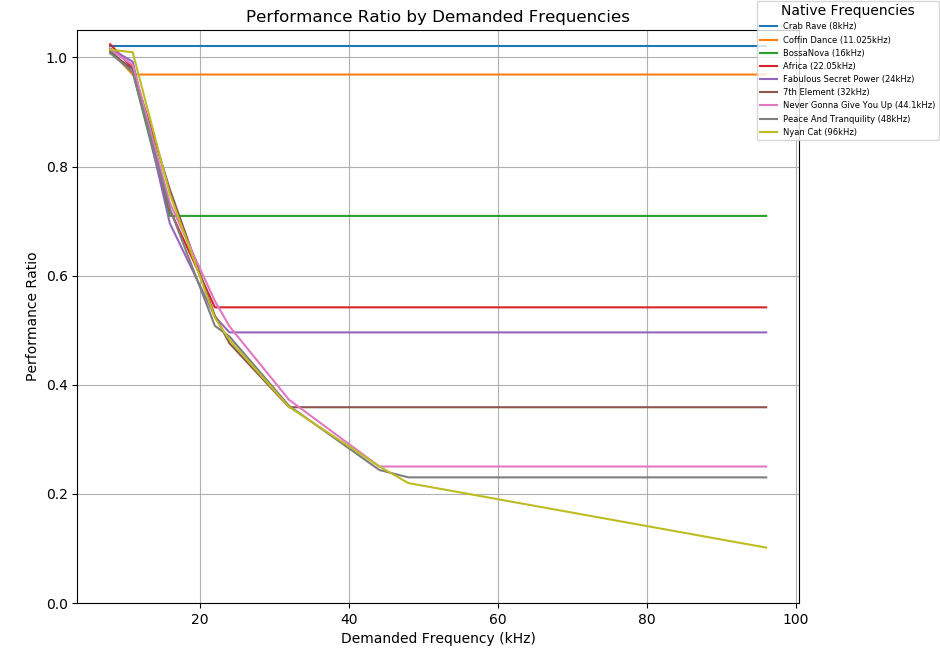
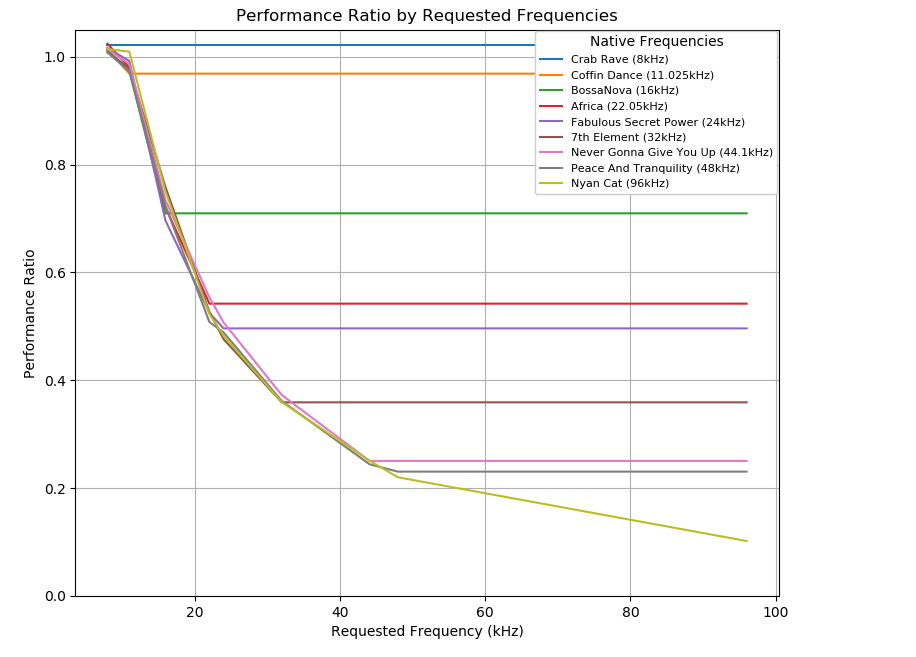
Readme + new charts

diff --git a/Charts/show_charts.py b/Charts/show_charts.py
@@ -41,12 +41,12 @@ def showChart(data):
         plots.append(plot)
         legend_labels.append(str(dataset["Title"] + " (" + str(dataset["Freq"]) + "kHz)"))
 
-    axis.set_xlabel("Demanded Frequency (kHz)")
+    axis.set_xlabel("Requested Frequency (kHz)")
     axis.set_ylabel("Performance Ratio")
-    axis.set_title("Performance Ratio by Demanded Frequencies")
+    axis.set_title("Performance Ratio by Requested Frequencies")
     axis.grid(True)
 
-    figure.legend(plots, labels=legend_labels, loc="upper right", prop={'size':6},borderaxespad=0.1, title="Native Frequencies")
+    plt.legend(plots, labels=legend_labels, loc="upper right", prop={'size':8}, framealpha=1.0, borderaxespad=0.1, title="Native Frequencies")
     figure.tight_layout(pad=0.1)   
     plt.subplots_adjust(right=0.85)
     plt.show()

diff --git a/ReadMe.md b/ReadMe.md
@@ -1,11 +1,30 @@
-yum install alsa-lib-devel
-yum install bluez-libs-devel
+# Instructions
 
-g++ -g -o alsatest main.cpp -lasound
-scp music.wav pi@domain.duckdns.org:/home/pi/projects/laboratoire5
+## Prérequis:
 
-bluetooth :
-gcc -o client client.c -lbluetooth
-    exemple possible d'utilisation du client (pas sûr):
-./client B8:27:EB:1A:4E:52 2 0
-./client B8:27:EB:F8:55:90 2 0 
+	yum install alsa-lib-devel
+	
+## Compilation du client
+	./compilation_client.sh
+	
+## Compilation Serveur
+Avec CMake
+	
+## Synchronisation du serveur
+Exécuter la tâche *synch* en prenant soin de modifier les valeurs de l'adresse IP du Raspberry Pi
+	
+## Rouler le serveur en premier
+Sur le Raspberry Pi, faire la commande
+
+	./server
+	
+À l'endroit où se trouve l'exécutable server
+	
+## Rouler le client 
+À l'endroit où se trouve l'exécutable du client
+
+	./client path_to_file server_ip [compression_frequency]
+	
+Par exemple:
+
+	./client 8Hz/Crab8.wav 192.42.42.42 8000
